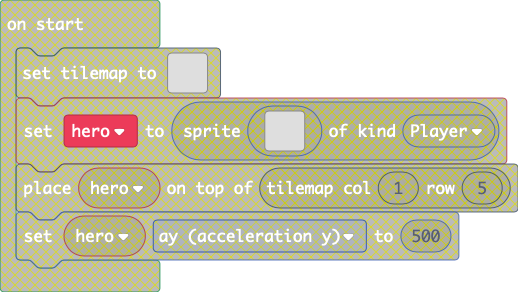
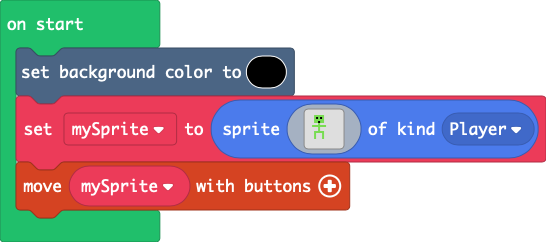
initial blocks and sprite

diff --git a/main.ts b/main.ts
@@ -19,3 +19,23 @@ namespace myTiles {
 . . . . . . . . . . . . . . . . 
 `
 }
+scene.setBackgroundColor(15)
+let mySprite = sprites.create(img`
+. . . . . . . . . . . . . . . . 
+. . . 7 7 7 7 7 . . . . . . . . 
+. . . 7 f 7 f 7 . . . . . . . . 
+. . . 7 7 7 7 7 . . . . . . . . 
+. . . 7 7 f 7 7 . . . . . . . . 
+. . . . . 7 . . . . . . . . . . 
+. . 7 7 7 7 7 7 7 . . . . . . . 
+. . . . . 7 . . . . . . . . . . 
+. . . . . 7 . . . . . . . . . . 
+. . . 7 7 7 7 7 . . . . . . . . 
+. . . 7 . . . 7 . . . . . . . . 
+. . . 7 . . . 7 . . . . . . . . 
+. . . 7 . . . 7 . . . . . . . . 
+. . . . . . . . . . . . . . . . 
+. . . . . . . . . . . . . . . . 
+. . . . . . . . . . . . . . . . 
+`, SpriteKind.Player)
+controller.moveSprite(mySprite)
